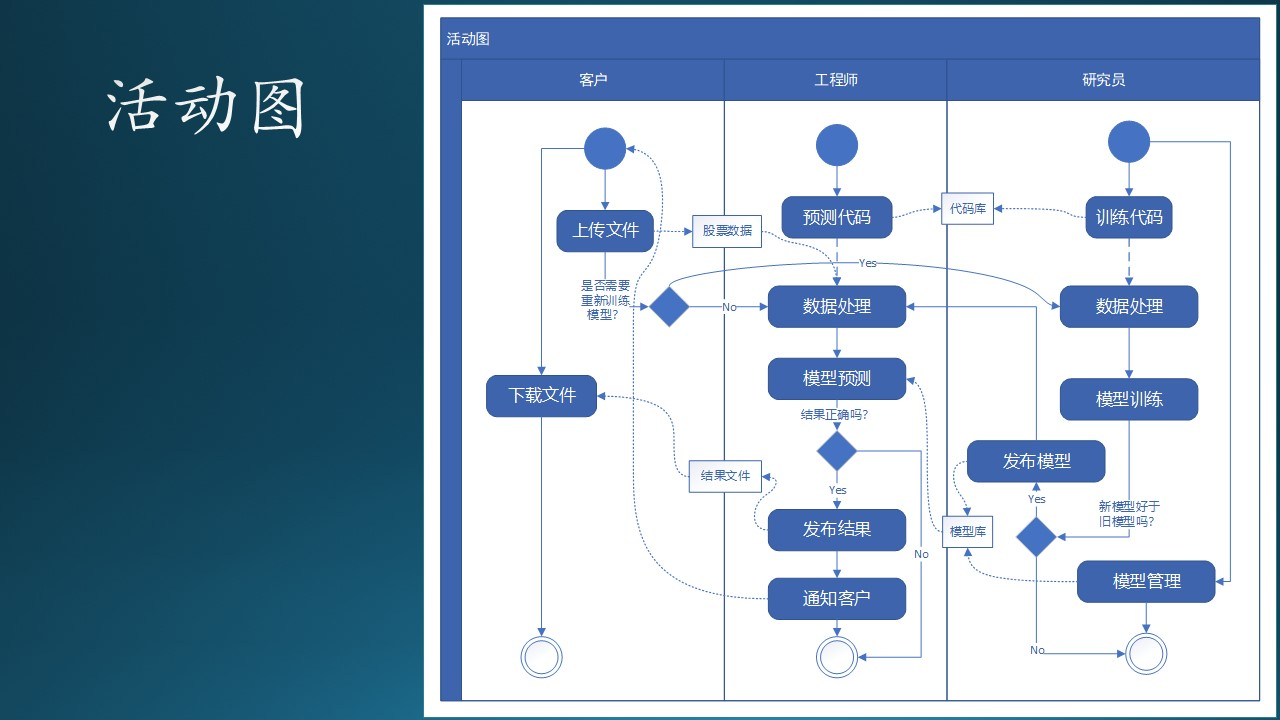
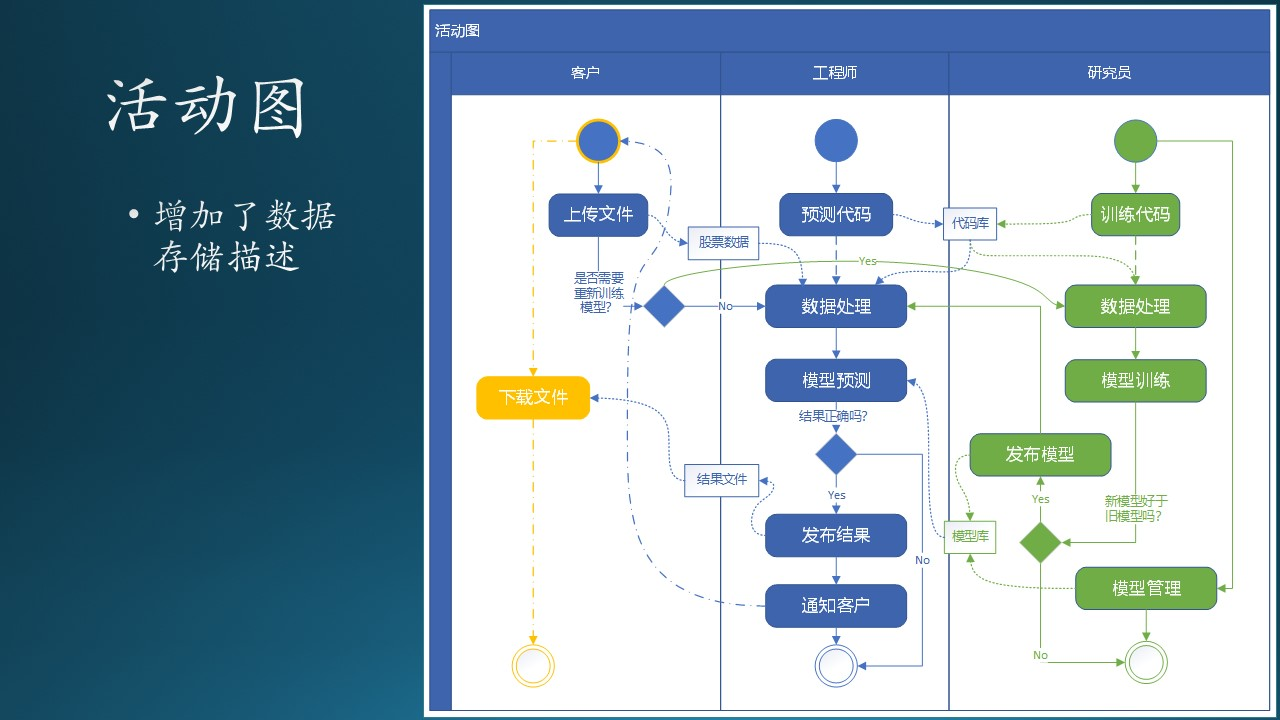
update

diff --git a/A-基础教程/A5-现代软件工程（更新中）/第5部分 设计与实现/ch11-系统设计/11.2 第二步：流程分析.md b/A-基础教程/A5-现代软件工程（更新中）/第5部分 设计与实现/ch11-系统设计/11.2 第二步：流程分析.md
@@ -97,6 +97,8 @@
 
 ## 11.2.5 活动图
 
+（。。。描述一下活动图的官方说法）
+
 在 UML 中也可以用活动图来描述业务流程，如图 11.2.4 所示。
 
 <div align="center">
@@ -105,4 +107,53 @@
 图 11.2.4 - 活动图
 </div>
 
-但是活动图
+活动图本来没有定义彩色，我们在图 11.2.4 中使用彩色是为了便于后续的说明。
+
+图 11.2.4 中一共有三个子流程：
+
+1. 常用流程，蓝色
+  
+   蓝色是常用流程，从客户“上传文件”开始，到工程师“通知客户”为止。“通知客户”的活动，实际上是给客户发了一个邮件，是一个异步过程，用点划线表示。
+
+2. 后续流程，黄色
+
+   客户接到通知后，开始“下载文件”的流程。
+
+3. 训练流程，绿色
+
+   当模型需要重新训练时，研究员会启动绿色流程，最后将训练好的最新模型发布给工程师。
+
+这与图 11.2.3 的描述内容基本一致，活动图的优点是：
+1. 与传统流程图类似，易于理解。
+2. 有“泳道”可以帮助分开角色与行为逻辑。可以看到有三个泳道分别描述了三个角色需要做的业务逻辑。
+3. 有起始、终止节点。比如，对于客户来说，走“上传文件”活动时，它的终点并不在自己的泳道内，而是结束于工程师泳道，因为这是一个同步过程。
+4. 有判断逻辑（菱形），可以做逻辑分支。
+
+但是与数据流图相比，活动图的缺点是它没有数据描述，也就是说不知道在哪一步应该存取什么数据。
+
+为了克服这个缺点，我们不妨给活动图增加一个图例：数据存储。针对图 11.2.4，我们可以画出图 11.2.5 的样子。
+
+<div align="center">
+<img src="Images/Slide10.JPG"/>
+
+图 11.2.5 - 活动图（有数据存储描述）
+</div>
+
+增加的数据存储有：
+- 股票数据
+  
+  处于“客户”和“工程师”泳道边界，属于二者共享，客户写，工程师读。
+
+- 结果文件
+  
+  处于“客户”和“工程师”泳道边界，属于二者共享，工程师写，客户读。
+
+- 代码库
+  
+  “工程师”和“研究员”共用，但是各自维护自己的代码，偶尔有共享代码。
+
+- 模型库
+
+  处于“工程师”和“研究员”泳道边界，研究员写，工程师读。
+
+这样的话，便于后面做数据设计。

diff --git a/A-基础教程/A5-现代软件工程（更新中）/第5部分 设计与实现/ch11-系统设计/11.4 第四步：功能设计.md b/A-基础教程/A5-现代软件工程（更新中）/第5部分 设计与实现/ch11-系统设计/11.4 第四步：功能设计.md
@@ -7,7 +7,7 @@
 得到图 11.2.3 后，就可以进行下一步的设计工作了。注意，在依赖数据流图把需求分析变成系统设计的过程中，有一些“潜规则”：
 
 <div align="center">
-<img src="Images/Slide10.JPG"/>
+<img src="Images/Slide12.JPG"/>
 
 图 11.4.1 - 加工逻辑的“潜规则”
 </div>
@@ -25,7 +25,7 @@
 我们把加工逻辑有组织地组合在一起，就会形成子系统的概念。
 
 <div align="center">
-<img src="Images/Slide11.JPG"/>
+<img src="Images/Slide13.JPG"/>
 
 图 11.4.2 - 加工逻辑的“潜规则”
 </div>
@@ -140,7 +140,7 @@
    考虑到“训练”和“预测”模块的独立性，我们尽量不要改它们的业务逻辑，而是在外面单独增加一个控制中心，来接收来自客户端的“通知”，再做后续处理。即，在用户上传完文件后，由客户端手动或自动发送一个通知给控制中心，以便触发后面的工作流程。“上传”和“通知”两个动作最好在一个事务中完成。
 
 <div align="center">
-<img src="Images/Slide12.JPG"/>
+<img src="Images/Slide14.JPG"/>
 
 图 11.4.2 - 设计控制中心
 </div>
@@ -172,7 +172,7 @@
 在设计控制中心时，有一个非常常见的误区，见图 11.4.3：
 
 <div align="center">
-<img src="Images/Slide13.JPG"/>
+<img src="Images/Slide15.JPG"/>
 
 图 11.4.3 - 错误的设计
 </div>

diff --git a/A-基础教程/A5-现代软件工程（更新中）/第5部分 设计与实现/ch11-系统设计/11.5 第五步：状态设计.md b/A-基础教程/A5-现代软件工程（更新中）/第5部分 设计与实现/ch11-系统设计/11.5 第五步：状态设计.md
@@ -5,7 +5,7 @@
 在数据流图中定义了一系列大的流程，在功能设计中划分了模块，但是都没有给出所有的分支和细节，所以我们在这一小节要通过对控制中心的状态转换设计来捋清楚所有细节。绘制传统的流程图也是可以做到这一点的，但是不包含状态名称信息，在后面的文档或者开发过程中，不容易形成共同语言。而且使用流程图做设计，实现时只能用 if...else 来编写代码，当一个对象状态非常复杂时，用 if...else 解决不了问题。
 
 <div align="center">
-<img src="Images/Slide14.JPG"/>
+<img src="Images/Slide16.JPG"/>
 
 图 11.5.1 - 控制中心状态设计
 </div>
@@ -50,7 +50,7 @@
 把上面的策略总结成状态转换，如图 11.5.2 所示。
 
 <div align="center">
-<img src="Images/Slide15.JPG"/>
+<img src="Images/Slide17.JPG"/>
 
 图 11.5.2 - 虚拟机状态设计
 </div>
@@ -60,7 +60,7 @@
 初学者在做状态设计的时候，会出现的一些常见错误如图 11.5.3 所示。
 
 <div align="center">
-<img src="Images/Slide16.JPG"/>
+<img src="Images/Slide18.JPG"/>
 
 图 11.5.3 - 错误的状态设计
 </div>

diff --git a/A-基础教程/A5-现代软件工程（更新中）/第5部分 设计与实现/ch11-系统设计/11.6 第六步：交互设计.md b/A-基础教程/A5-现代软件工程（更新中）/第5部分 设计与实现/ch11-系统设计/11.6 第六步：交互设计.md
@@ -9,7 +9,7 @@
 协作图描述对象之间的协作关系，进一步弥补了 11.4 节中关于通知/调用的顺序问题。
 
 <div align="center">
-<img src="Images/Slide17.JPG"/>
+<img src="Images/Slide19.JPG"/>
 
 图 11.6.1 - 协作图
 </div>
@@ -56,7 +56,7 @@
 协作图刻画的是控制流，是一种初级的交互设计，但是还不够细，不能让程序员在实现阶段得到全面的信息。顺序图进一步弥补了这一缺陷。
 
 <div align="center">
-<img src="Images/Slide18.JPG"/>
+<img src="Images/Slide20.JPG"/>
 
 图 11.6.2 - 顺序图
 </div>
@@ -86,7 +86,7 @@
 面对同样的问题，大家都会有不同的解决方案，没有对错，只是考虑的角度不同。但是有些设计却具有明显的错误。木头曾经把这个问题当作一个课堂练习，让同学们来设计系统，图 11.6.3 是其中一组同学的设计。
 
 <div align="center">
-<img src="Images/Slide19.JPG"/>
+<img src="Images/Slide21.JPG"/>
 
 图 11.6.3 - 错误的设计
 </div>

diff --git a/A-基础教程/A5-现代软件工程（更新中）/第5部分 设计与实现/ch11-系统设计/11.7 第七步：接口设计.md b/A-基础教程/A5-现代软件工程（更新中）/第5部分 设计与实现/ch11-系统设计/11.7 第七步：接口设计.md
@@ -44,7 +44,7 @@
 ## 11.7.2 客户端需要的外部接口
 
 <div align="center">
-<img src="Images/Slide20.JPG"/>
+<img src="Images/Slide22.JPG"/>
 
 图 11.7.1 - 客户端需要的接口
 </div>
@@ -133,7 +133,7 @@
 ## 11.7.3 控制中心需要的外部接口
 
 <div align="center">
-<img src="Images/Slide21.JPG"/>
+<img src="Images/Slide23.JPG"/>
 
 图 11.7.2 - 控制中心需要的外部接口
 </div>
@@ -178,7 +178,7 @@
 ## 11.7.4 内部子系统需要的外部接口
 
 <div align="center">
-<img src="Images/Slide22.JPG"/>
+<img src="Images/Slide24.JPG"/>
 
 图 11.6.3 - 训练/预测/管理需要的外部接口
 </div>
@@ -234,7 +234,7 @@
 
 
 <div align="center">
-<img src="Images/Slide23.JPG"/>
+<img src="Images/Slide25.JPG"/>
 
 图 11.6.3 - 客户子系统的
 </div>

diff --git a/A-基础教程/A5-现代软件工程（更新中）/第5部分 设计与实现/ch11-系统设计/11.3 第三步：数据设计.md b/A-基础教程/A5-现代软件工程（更新中）/第5部分 设计与实现/ch11-系统设计/11.3 第三步：数据设计.md
@@ -9,7 +9,7 @@
 - 对于模型，使用ML-flow，它后台使用了MySql作为索引，Azure Blob作为存储。
 
 <div align="center">
-<img src="Images/Slide10.JPG"/>
+<img src="Images/Slide11.JPG"/>
 
 图 11.3.1 - 数据设计
 </div>
